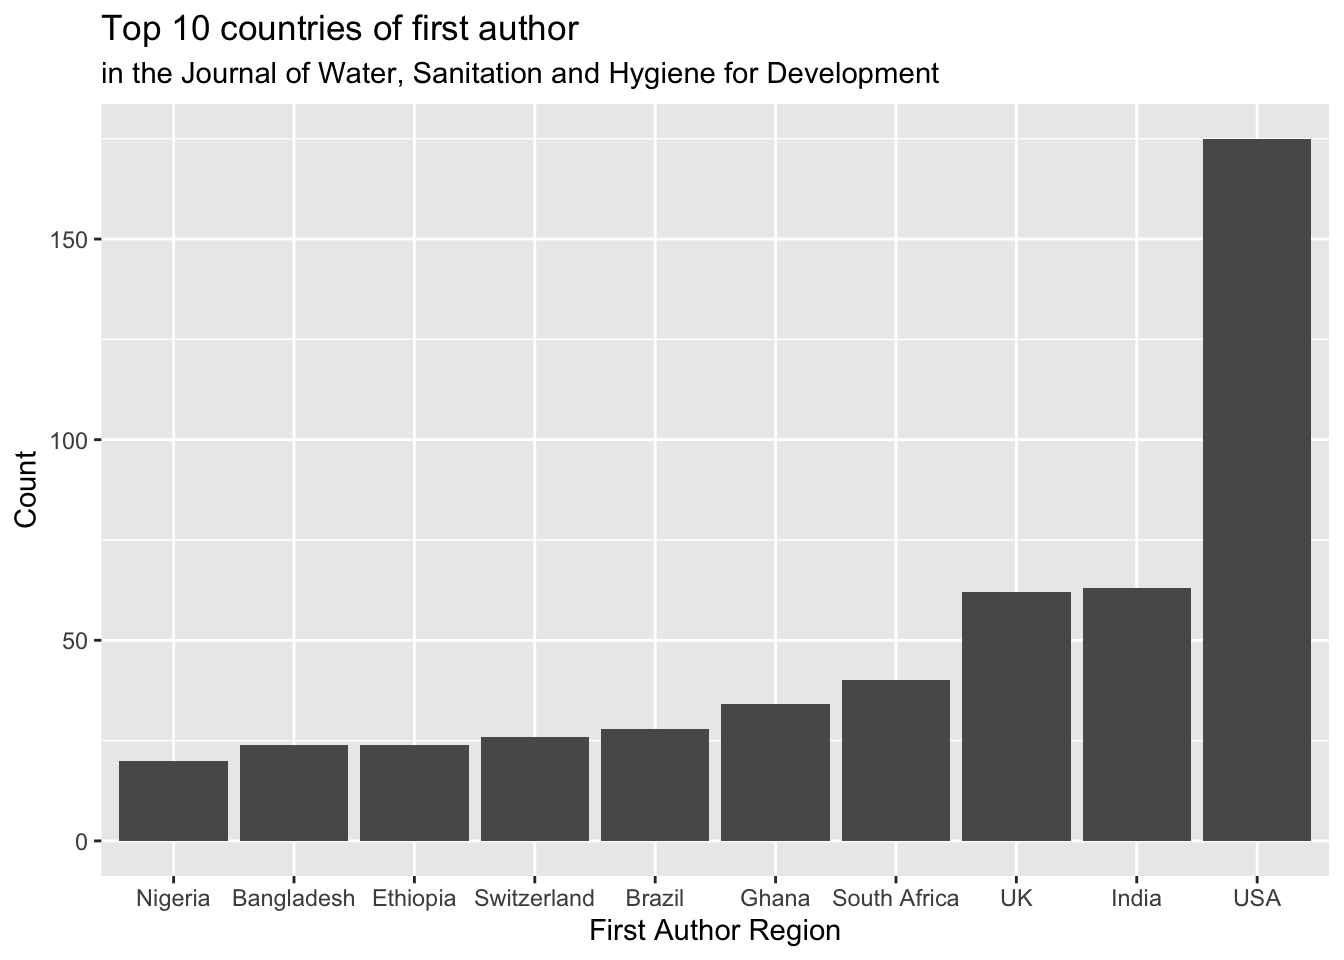
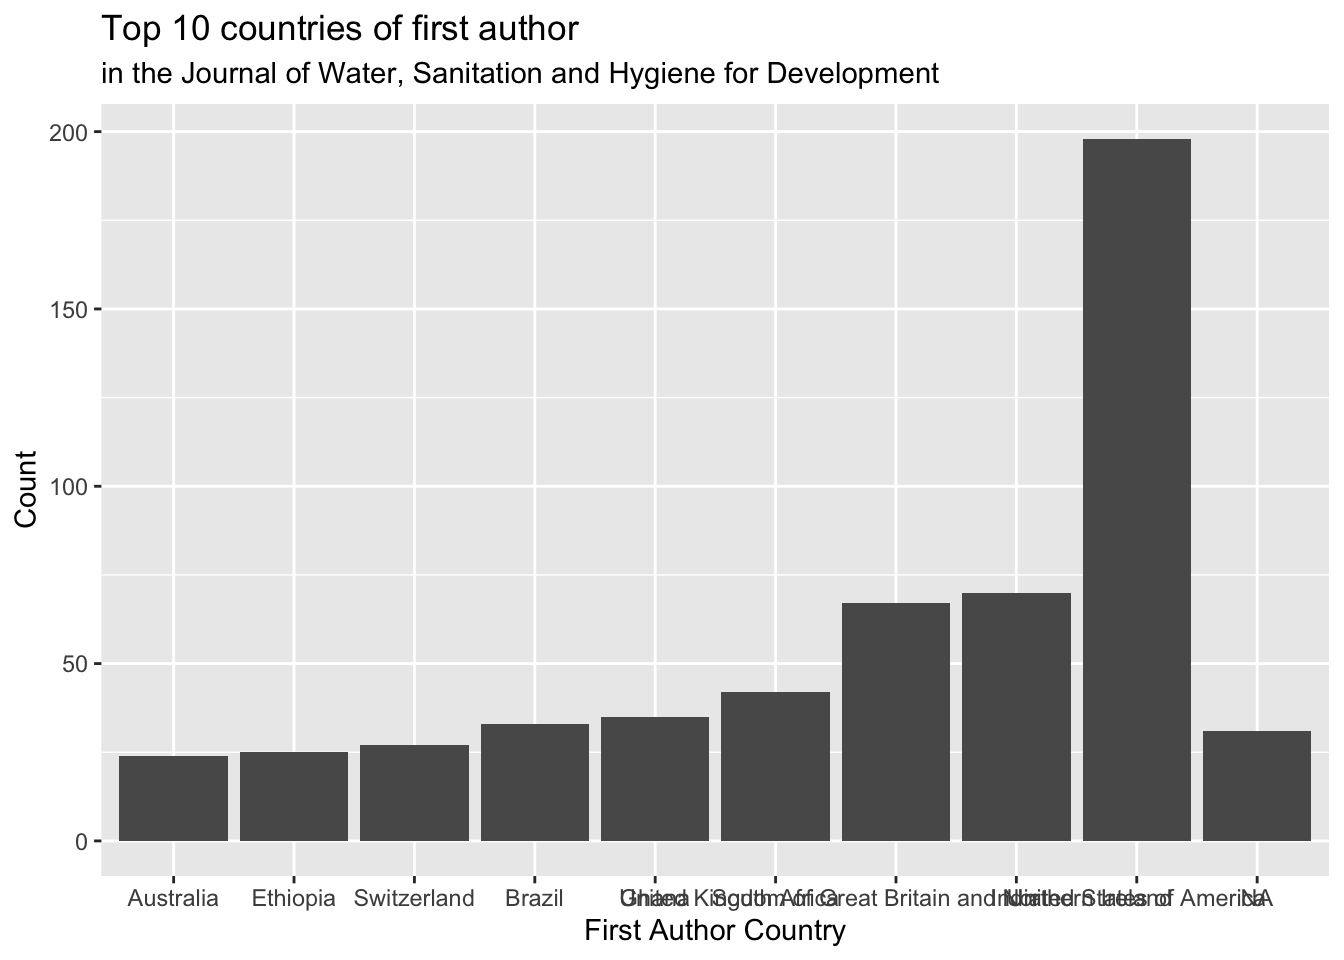
fix README

diff --git a/README.md b/README.md
@@ -66,10 +66,10 @@ washdev |>
   gt::as_raw_html()
 ```
 
-<div id="eefzyxuuyg" style="padding-left:0px;padding-right:0px;padding-top:10px;padding-bottom:10px;overflow-x:auto;overflow-y:auto;width:auto;height:auto;">
+<div id="hpnofkwkga" style="padding-left:0px;padding-right:0px;padding-top:10px;padding-bottom:10px;overflow-x:auto;overflow-y:auto;width:auto;height:auto;">
   &#10;  <table class="gt_table" data-quarto-disable-processing="false" data-quarto-bootstrap="false" style="-webkit-font-smoothing: antialiased; -moz-osx-font-smoothing: grayscale; font-family: system-ui, 'Segoe UI', Roboto, Helvetica, Arial, sans-serif, 'Apple Color Emoji', 'Segoe UI Emoji', 'Segoe UI Symbol', 'Noto Color Emoji'; display: table; border-collapse: collapse; line-height: normal; margin-left: auto; margin-right: auto; color: #333333; font-size: 16px; font-weight: normal; font-style: normal; background-color: #FFFFFF; width: auto; border-top-style: solid; border-top-width: 2px; border-top-color: #A8A8A8; border-right-style: none; border-right-width: 2px; border-right-color: #D3D3D3; border-bottom-style: solid; border-bottom-width: 2px; border-bottom-color: #A8A8A8; border-left-style: none; border-left-width: 2px; border-left-color: #D3D3D3;" bgcolor="#FFFFFF">
   <thead style="border-style: none;">
-    &#10;    <tr class="gt_col_headings" style="border-style: none; border-top-style: solid; border-top-width: 2px; border-top-color: #D3D3D3; border-bottom-style: solid; border-bottom-width: 2px; border-bottom-color: #D3D3D3; border-left-style: none; border-left-width: 1px; border-left-color: #D3D3D3; border-right-style: none; border-right-width: 1px; border-right-color: #D3D3D3;">
+    <tr class="gt_col_headings" style="border-style: none; border-top-style: solid; border-top-width: 2px; border-top-color: #D3D3D3; border-bottom-style: solid; border-bottom-width: 2px; border-bottom-color: #D3D3D3; border-left-style: none; border-left-width: 1px; border-left-color: #D3D3D3; border-right-style: none; border-right-width: 1px; border-right-color: #D3D3D3;">
       <th class="gt_col_heading gt_columns_bottom_border gt_right" rowspan="1" colspan="1" scope="col" id="paperid" style="border-style: none; color: #333333; background-color: #FFFFFF; font-size: 100%; font-weight: normal; text-transform: inherit; border-left-style: none; border-left-width: 1px; border-left-color: #D3D3D3; border-right-style: none; border-right-width: 1px; border-right-color: #D3D3D3; vertical-align: bottom; padding-top: 5px; padding-bottom: 6px; padding-left: 5px; padding-right: 5px; overflow-x: hidden; text-align: right; font-variant-numeric: tabular-nums;" bgcolor="#FFFFFF" valign="bottom" align="right">paperid</th>
       <th class="gt_col_heading gt_columns_bottom_border gt_right" rowspan="1" colspan="1" scope="col" id="volume" style="border-style: none; color: #333333; background-color: #FFFFFF; font-size: 100%; font-weight: normal; text-transform: inherit; border-left-style: none; border-left-width: 1px; border-left-color: #D3D3D3; border-right-style: none; border-right-width: 1px; border-right-color: #D3D3D3; vertical-align: bottom; padding-top: 5px; padding-bottom: 6px; padding-left: 5px; padding-right: 5px; overflow-x: hidden; text-align: right; font-variant-numeric: tabular-nums;" bgcolor="#FFFFFF" valign="bottom" align="right">volume</th>
       <th class="gt_col_heading gt_columns_bottom_border gt_right" rowspan="1" colspan="1" scope="col" id="issue" style="border-style: none; color: #333333; background-color: #FFFFFF; font-size: 100%; font-weight: normal; text-transform: inherit; border-left-style: none; border-left-width: 1px; border-left-color: #D3D3D3; border-right-style: none; border-right-width: 1px; border-right-color: #D3D3D3; vertical-align: bottom; padding-top: 5px; padding-bottom: 6px; padding-left: 5px; padding-right: 5px; overflow-x: hidden; text-align: right; font-variant-numeric: tabular-nums;" bgcolor="#FFFFFF" valign="bottom" align="right">issue</th>
@@ -190,7 +190,7 @@ For an overview of the variable names, see the following table.
 
 <div style="border: 1px solid #ddd; padding: 0px; overflow-y: scroll; height:200px; ">
 
-<table class="table" style="margin-left: auto; margin-right: auto;">
+<table class="table" style="color: black; margin-left: auto; margin-right: auto;">
 <thead>
 <tr>
 <th style="text-align:left;position: sticky; top:0; background-color: #FFFFFF;">
@@ -240,7 +240,7 @@ Issue number of the journal
 </tr>
 <tr>
 <td style="text-align:left;">
-url
+paper_url
 </td>
 <td style="text-align:left;">
 character
@@ -309,7 +309,7 @@ Number of supplementary material files
 supp_file_type
 </td>
 <td style="text-align:left;">
-character
+list
 </td>
 <td style="text-align:left;">
 File type of the supplementary materials
@@ -468,7 +468,8 @@ das
 character
 </td>
 <td style="text-align:left;">
-Original data availability statement of the paper
+Original data availability statement of the paper. NA if it does not
+have a data availability statement.
 </td>
 </tr>
 <tr>
@@ -479,8 +480,12 @@ das_type
 factor
 </td>
 <td style="text-align:left;">
-Type of the data availability statement including “in paper” “on
-request” “available in online repository” “not sharable” “NA”
+Type of the data availability statement including “in paper”(data in
+full paper scope like supplementary material or appendix or main
+content) “on request”(data available on request to the authors)
+“available in online repository”(data is shared in a public online
+repository) “not shareable”(data is not shareable). NA if it does not
+have a data availability statement.
 </td>
 </tr>
 <tr>
@@ -488,7 +493,7 @@ request” “available in online repository” “not sharable” “NA”
 das_repo_url
 </td>
 <td style="text-align:left;">
-character
+list
 </td>
 <td style="text-align:left;">
 Website url of the data if the relevant data of the paper is shared on a
@@ -500,10 +505,21 @@ public repository
 keywords
 </td>
 <td style="text-align:left;">
-vector
+list
 </td>
 <td style="text-align:left;">
 List of keywords of the paper
+</td>
+</tr>
+<tr>
+<td style="text-align:left;">
+url_source
+</td>
+<td style="text-align:left;">
+character
+</td>
+<td style="text-align:left;">
+Publisher website of the paper
 </td>
 </tr>
 </tbody>
@@ -524,10 +540,10 @@ uncnewsletter |>
   gt::as_raw_html()
 ```
 
-<div id="tawearzqpd" style="padding-left:0px;padding-right:0px;padding-top:10px;padding-bottom:10px;overflow-x:auto;overflow-y:auto;width:auto;height:auto;">
+<div id="ebzvresonq" style="padding-left:0px;padding-right:0px;padding-top:10px;padding-bottom:10px;overflow-x:auto;overflow-y:auto;width:auto;height:auto;">
   &#10;  <table class="gt_table" data-quarto-disable-processing="false" data-quarto-bootstrap="false" style="-webkit-font-smoothing: antialiased; -moz-osx-font-smoothing: grayscale; font-family: system-ui, 'Segoe UI', Roboto, Helvetica, Arial, sans-serif, 'Apple Color Emoji', 'Segoe UI Emoji', 'Segoe UI Symbol', 'Noto Color Emoji'; display: table; border-collapse: collapse; line-height: normal; margin-left: auto; margin-right: auto; color: #333333; font-size: 16px; font-weight: normal; font-style: normal; background-color: #FFFFFF; width: auto; border-top-style: solid; border-top-width: 2px; border-top-color: #A8A8A8; border-right-style: none; border-right-width: 2px; border-right-color: #D3D3D3; border-bottom-style: solid; border-bottom-width: 2px; border-bottom-color: #A8A8A8; border-left-style: none; border-left-width: 2px; border-left-color: #D3D3D3;" bgcolor="#FFFFFF">
   <thead style="border-style: none;">
-    &#10;    <tr class="gt_col_headings" style="border-style: none; border-top-style: solid; border-top-width: 2px; border-top-color: #D3D3D3; border-bottom-style: solid; border-bottom-width: 2px; border-bottom-color: #D3D3D3; border-left-style: none; border-left-width: 1px; border-left-color: #D3D3D3; border-right-style: none; border-right-width: 1px; border-right-color: #D3D3D3;">
+    <tr class="gt_col_headings" style="border-style: none; border-top-style: solid; border-top-width: 2px; border-top-color: #D3D3D3; border-bottom-style: solid; border-bottom-width: 2px; border-bottom-color: #D3D3D3; border-left-style: none; border-left-width: 1px; border-left-color: #D3D3D3; border-right-style: none; border-right-width: 1px; border-right-color: #D3D3D3;">
       <th class="gt_col_heading gt_columns_bottom_border gt_right" rowspan="1" colspan="1" scope="col" id="paper_id" style="border-style: none; color: #333333; background-color: #FFFFFF; font-size: 100%; font-weight: normal; text-transform: inherit; border-left-style: none; border-left-width: 1px; border-left-color: #D3D3D3; border-right-style: none; border-right-width: 1px; border-right-color: #D3D3D3; vertical-align: bottom; padding-top: 5px; padding-bottom: 6px; padding-left: 5px; padding-right: 5px; overflow-x: hidden; text-align: right; font-variant-numeric: tabular-nums;" bgcolor="#FFFFFF" valign="bottom" align="right">paper_id</th>
       <th class="gt_col_heading gt_columns_bottom_border gt_left" rowspan="1" colspan="1" scope="col" id="issue_url" style="border-style: none; color: #333333; background-color: #FFFFFF; font-size: 100%; font-weight: normal; text-transform: inherit; border-left-style: none; border-left-width: 1px; border-left-color: #D3D3D3; border-right-style: none; border-right-width: 1px; border-right-color: #D3D3D3; vertical-align: bottom; padding-top: 5px; padding-bottom: 6px; padding-left: 5px; padding-right: 5px; overflow-x: hidden; text-align: left;" bgcolor="#FFFFFF" valign="bottom" align="left">issue_url</th>
       <th class="gt_col_heading gt_columns_bottom_border gt_left" rowspan="1" colspan="1" scope="col" id="paper_url" style="border-style: none; color: #333333; background-color: #FFFFFF; font-size: 100%; font-weight: normal; text-transform: inherit; border-left-style: none; border-left-width: 1px; border-left-color: #D3D3D3; border-right-style: none; border-right-width: 1px; border-right-color: #D3D3D3; vertical-align: bottom; padding-top: 5px; padding-bottom: 6px; padding-left: 5px; padding-right: 5px; overflow-x: hidden; text-align: left;" bgcolor="#FFFFFF" valign="bottom" align="left">paper_url</th>
@@ -648,7 +664,7 @@ For an overview of the variable descriptions, see the following table.
 
 <div style="border: 1px solid #ddd; padding: 0px; overflow-y: scroll; height:200px; ">
 
-<table class="table" style="margin-left: auto; margin-right: auto;">
+<table class="table" style="color: black; margin-left: auto; margin-right: auto;">
 <thead>
 <tr>
 <th style="text-align:left;position: sticky; top:0; background-color: #FFFFFF;">
@@ -676,7 +692,7 @@ ID number of the paper on the journal website
 </tr>
 <tr>
 <td style="text-align:left;">
-volume
+issue_url
 </td>
 <td style="text-align:left;">
 integer
@@ -687,24 +703,24 @@ Volume number of the journal
 </tr>
 <tr>
 <td style="text-align:left;">
-issue
-</td>
-<td style="text-align:left;">
-integer
-</td>
-<td style="text-align:left;">
-Issue number of the journal
-</td>
-</tr>
-<tr>
-<td style="text-align:left;">
-url
+paper_url
 </td>
 <td style="text-align:left;">
 character
 </td>
 <td style="text-align:left;">
 Official website url of the paper
+</td>
+</tr>
+<tr>
+<td style="text-align:left;">
+url_source
+</td>
+<td style="text-align:left;">
+character
+</td>
+<td style="text-align:left;">
+Publisher website of the paper
 </td>
 </tr>
 <tr>
@@ -767,7 +783,7 @@ Number of supplementary material files
 supp_file_type
 </td>
 <td style="text-align:left;">
-character
+list
 </td>
 <td style="text-align:left;">
 File type of the supplementary materials
@@ -778,7 +794,7 @@ File type of the supplementary materials
 supp_url
 </td>
 <td style="text-align:left;">
-character
+list
 </td>
 <td style="text-align:left;">
 Website url of the supplementary materials
@@ -819,14 +835,14 @@ Academic affiliation of the first author
 </tr>
 <tr>
 <td style="text-align:left;">
-first_author_affiliation_region
+first_author_affiliation_country
 </td>
 <td style="text-align:left;">
 character
 </td>
 <td style="text-align:left;">
-Country or region of the first author parsed from
-first_author_affiliation variable
+Country of the first author directly parsed from
+first_author_affiliation variable encoded with United Nation names
 </td>
 </tr>
 <tr>
@@ -875,14 +891,15 @@ Academic affiliation of the correspondence author
 </tr>
 <tr>
 <td style="text-align:left;">
-correspondence_author_affiliation_region
+correspondence_author_affiliation_country
 </td>
 <td style="text-align:left;">
 character
 </td>
 <td style="text-align:left;">
-Country or region of the correspondence author parsed from
-correspondence_author_affiliation variable
+Country or region of the correspondence author directly parsed from
+correspondence_author_affiliation variable encoded with United Nation
+names
 </td>
 </tr>
 <tr>
@@ -926,7 +943,8 @@ das
 character
 </td>
 <td style="text-align:left;">
-Original data availability statement of the paper
+Original data availability statement of the paper. NA if it does not
+have a data availability statement.
 </td>
 </tr>
 <tr>
@@ -937,7 +955,12 @@ das_type
 factor
 </td>
 <td style="text-align:left;">
-Type of the data availability statement \#todo
+Type of the data availability statement including “in paper”(data in
+full paper scope like supplementary material or appendix or main
+content) “on request”(data available on request to the authors)
+“available in online repository”(data is shared in a public online
+repository) “not shareable”(data is not shareable). NA if it does not
+have a data availability statement.
 </td>
 </tr>
 <tr>
@@ -945,7 +968,7 @@ Type of the data availability statement \#todo
 das_repo_url
 </td>
 <td style="text-align:left;">
-character
+list
 </td>
 <td style="text-align:left;">
 Website url of the data if the relevant data of the paper is shared on a
